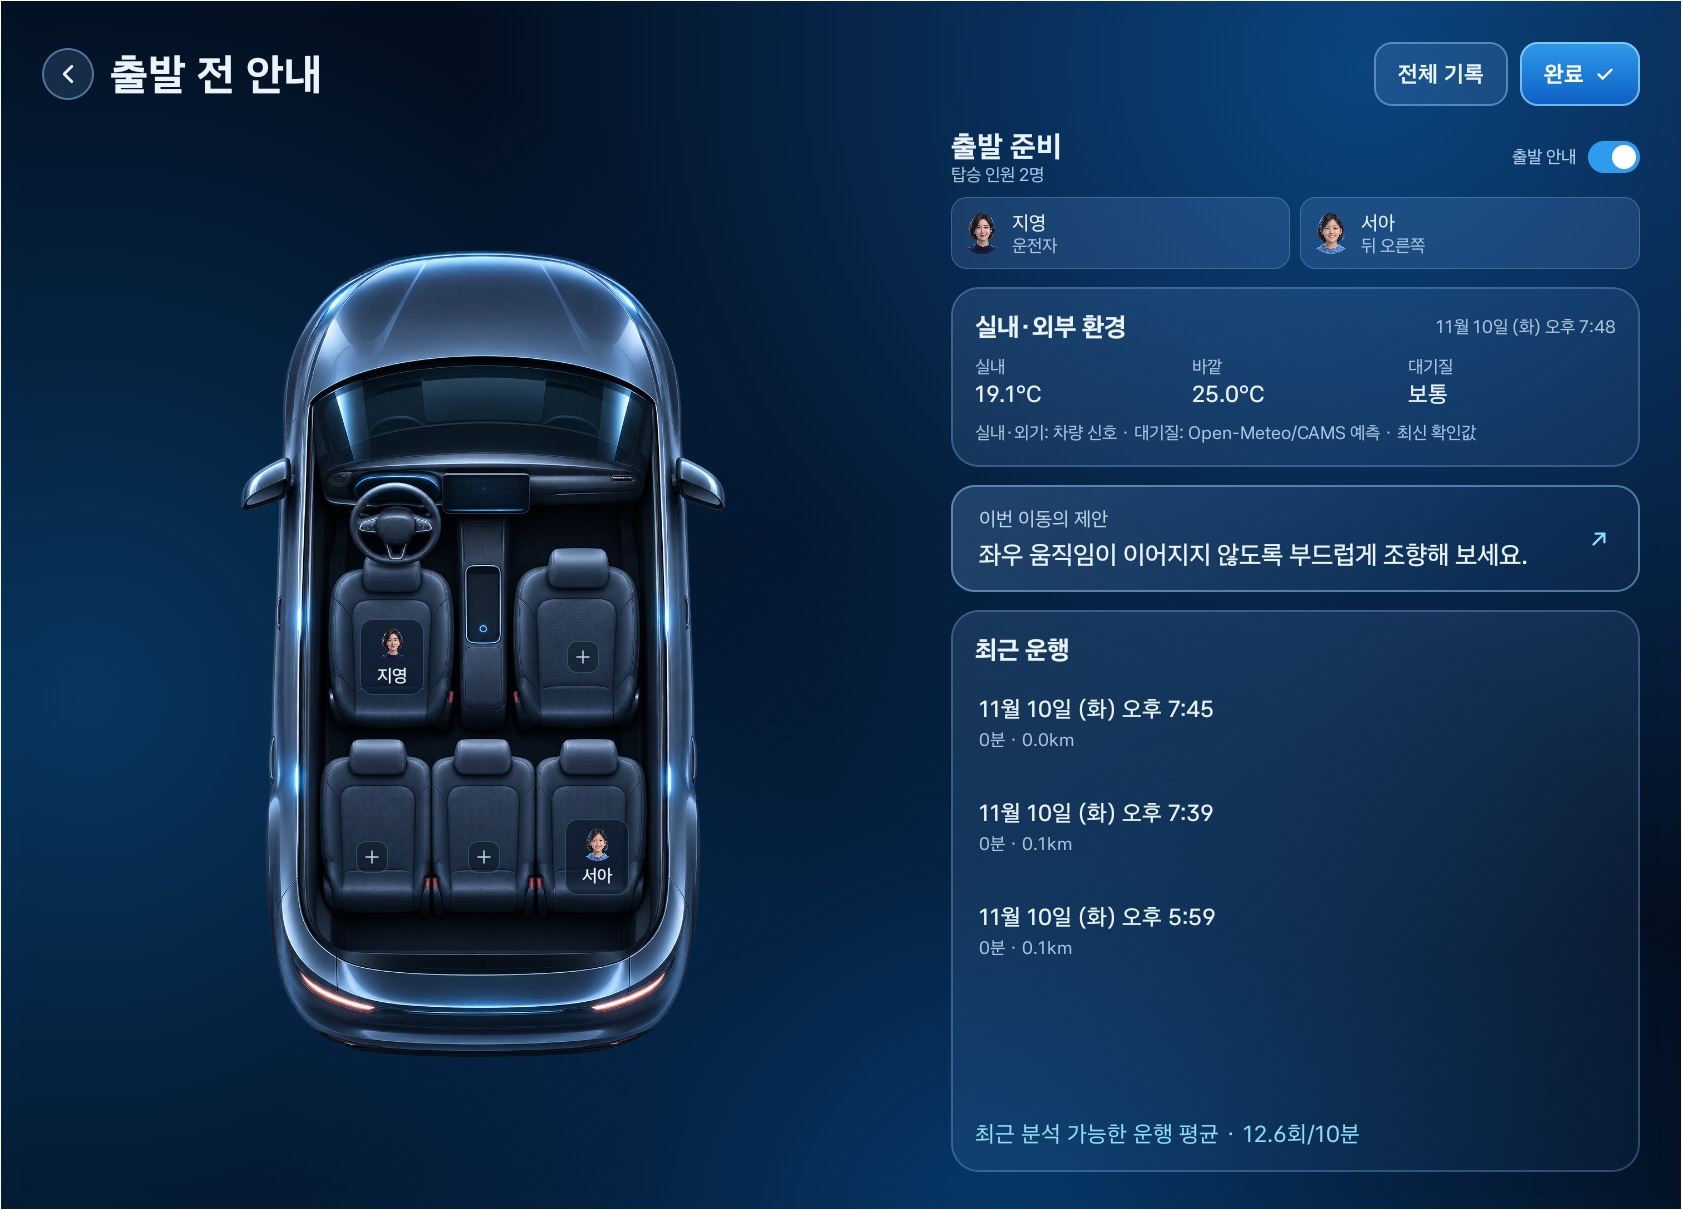
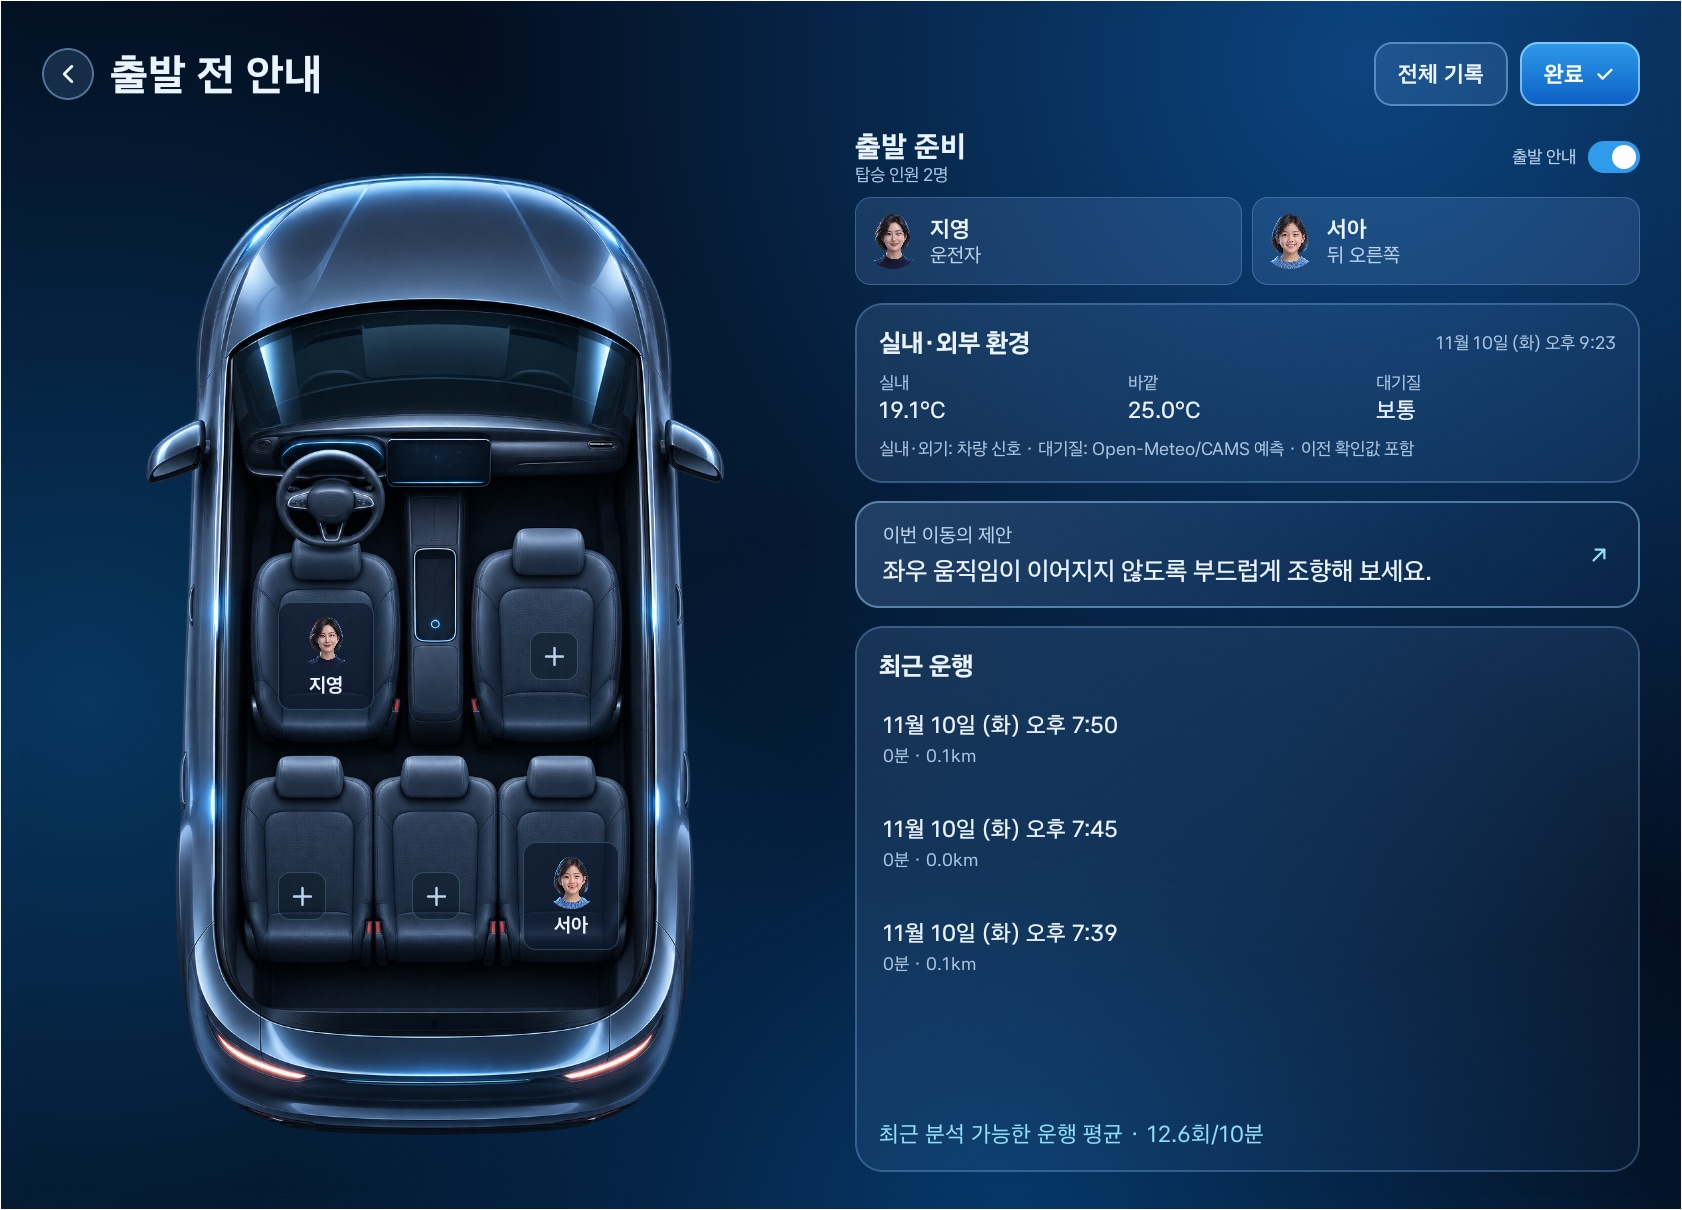
feat: 좌석 화면의 차 그림과 좌석·탑승자 표시를 키워 빈 공간을 줄임
Claude-Session: https://claude.ai/code/session_01Wjhb7fqWhhWdR3H3KBWn9w

diff --git a/feature/history/src/main/java/dev/motioncare/feature/history/departure/ReadyContent.kt b/feature/history/src/main/java/dev/motioncare/feature/history/departure/ReadyContent.kt
@@ -132,9 +132,9 @@ private fun DepartureContent(
                 state.error?.let { Text(it, color = MaterialTheme.colorScheme.error) }
                 if (state.loading) LinearProgressIndicator(Modifier.fillMaxWidth())
                 if (wide) Row(Modifier.fillMaxWidth().height(panelHeight), horizontalArrangement = Arrangement.spacedBy(28.dp)) {
-                    SeatingPanel(state, openSeat, { openSeat = it }, Modifier.weight(1.15f).fillMaxHeight(), panelHeight)
+                    SeatingPanel(state, openSeat, { openSeat = it }, Modifier.weight(1f).fillMaxHeight(), panelHeight)
                     DepartureConsole(state, { openSeat = it }, onAdvice, onTrip, onToggleGuidance,
-                        Modifier.weight(.9f).fillMaxHeight(), compact)
+                        Modifier.weight(1f).fillMaxHeight(), compact)
                 } else Column(verticalArrangement = Arrangement.spacedBy(22.dp)) {
                     SeatingPanel(state, openSeat, { openSeat = it })
                     DepartureConsole(state, { openSeat = it }, onAdvice, onTrip, onToggleGuidance)
@@ -319,7 +319,8 @@ private val adviceSteps = listOf(MotionIcons.Person to "자리", MotionIcons.Pla
     maxCarHeight: Dp = 860.dp,
 ) {
     Box(modifier.heightIn(min = 500.dp).padding(horizontal = 8.dp, vertical = 12.dp), contentAlignment = Alignment.Center) {
-        CarInterior(state, openSeat, onSeat, maxCarHeight)
+        // The padding comes out of the height the car may take.
+        CarInterior(state, openSeat, onSeat, maxCarHeight - 24.dp)
     }
 }
 
@@ -375,17 +376,17 @@ private fun DepartureOverview(
                         color = MotionPanel,
                         shape = RoundedCornerShape(16.dp),
                         border = BorderStroke(1.dp, MotionLine),
-                        modifier = Modifier.weight(1f).heightIn(min = if (compact) 58.dp else 72.dp),
+                        modifier = Modifier.weight(1f).heightIn(min = if (compact) 64.dp else 88.dp),
                     ) {
                         Row(
                             Modifier.padding(horizontal = 10.dp, vertical = 8.dp),
                             verticalAlignment = Alignment.CenterVertically,
                             horizontalArrangement = Arrangement.spacedBy(9.dp),
                         ) {
-                            PersonAvatar(person, Modifier.size(if (compact) 34.dp else 42.dp))
+                            PersonAvatar(person, Modifier.size(if (compact) 40.dp else 56.dp))
                             Column(Modifier.weight(1f)) {
-                                Text(person.displayName, fontSize = motionType.label, maxLines = 1, overflow = TextOverflow.Ellipsis)
-                                Text(if (seat == SeatPosition.DRIVER) "운전자" else seat.shortLabel(), color = MotionMuted, fontSize = motionType.caption, maxLines = 1)
+                                Text(person.displayName, fontSize = motionType.body, fontWeight = FontWeight.Bold, maxLines = 1, overflow = TextOverflow.Ellipsis)
+                                Text(if (seat == SeatPosition.DRIVER) "운전자" else seat.shortLabel(), color = MotionSubtle, fontSize = motionType.label, maxLines = 1)
                             }
                         }
                     }
@@ -462,8 +463,9 @@ private fun Availability.shortStatus() = when (this) {
 
 // Top-down view with the front of the car at the top; the driver sits front-left.
 @Composable private fun CarInterior(state: DepartureUiState, openSeat: SeatPosition?, onSeat: (SeatPosition) -> Unit, maxCarHeight: Dp) {
-    BoxWithConstraints(Modifier.fillMaxWidth().heightIn(max = 860.dp), contentAlignment = Alignment.Center) {
-        val width = minOf(maxWidth, 570.dp, maxCarHeight / 1.5f)
+    BoxWithConstraints(Modifier.fillMaxWidth().heightIn(max = maxCarHeight), contentAlignment = Alignment.Center) {
+        // The cabin drawing is 1 : 1.5. It grows to the panel's height so the seats read from the driver's seat.
+        val width = minOf(maxWidth, maxCarHeight / 1.5f)
         val height = width * 1.5f
         Box(Modifier.size(width, height)) {
             Image(painterResource(R.drawable.mc_cabin_b), "차량 좌석", Modifier.fillMaxSize(), contentScale = ContentScale.Fit)
@@ -471,7 +473,7 @@ private fun Availability.shortStatus() = when (this) {
                 Triple(SeatPosition.DRIVER, .34f, .50f), Triple(SeatPosition.FRONT_PASSENGER, .675f, .50f),
                 Triple(SeatPosition.REAR_LEFT, .305f, .735f), Triple(SeatPosition.REAR_CENTER, .502f, .735f), Triple(SeatPosition.REAR_RIGHT, .70f, .735f))
             positions.forEach { (seat, x, y) ->
-                val size = (width * .165f).coerceIn(48.dp, 64.dp)
+                val size = (width * .165f).coerceIn(48.dp, 96.dp)
                 Box(Modifier.offset(width * x - size / 2, height * y - size / 2)) {
                     SeatCircle(seat, size, state, openSeat, onSeat)
                 }
@@ -505,10 +507,10 @@ private fun Availability.shortStatus() = when (this) {
         border = if (selected || person != null) BorderStroke(1.dp, if (selected) MotionCyan.copy(.7f) else MotionCyan.copy(.22f)) else null,
         modifier = Modifier.size(size, size + 12.dp).semantics { contentDescription = "${seat.label()} · ${person?.displayName ?: "빈 자리"}" }) {
         Column(Modifier.padding(4.dp), horizontalAlignment = Alignment.CenterHorizontally, verticalArrangement = Arrangement.spacedBy(4.dp, Alignment.CenterVertically)) {
-            if (person == null) Box(Modifier.size(32.dp).background(Color(0x800A1724), RoundedCornerShape(10.dp)).border(1.dp, MotionCyan.copy(.22f), RoundedCornerShape(10.dp)), contentAlignment = Alignment.Center) {
-                Icon(MotionIcons.Plus, contentDescription = null, tint = MotionSubtle, modifier = Modifier.size(20.dp))
-            } else PersonAvatar(person, Modifier.size((size * .52f).coerceAtLeast(28.dp)))
-            if (person != null) Text(person.displayName, fontSize = motionType.caption, fontWeight = FontWeight.Medium, color = MotionText, maxLines = 1, overflow = TextOverflow.Ellipsis)
+            if (person == null) Box(Modifier.size(size * .5f).background(Color(0x800A1724), RoundedCornerShape(12.dp)).border(1.dp, MotionCyan.copy(.22f), RoundedCornerShape(12.dp)), contentAlignment = Alignment.Center) {
+                Icon(MotionIcons.Plus, contentDescription = null, tint = MotionSubtle, modifier = Modifier.size(size * .3f))
+            } else PersonAvatar(person, Modifier.size((size * .55f).coerceAtLeast(28.dp)))
+            if (person != null) Text(person.displayName, fontSize = motionType.label, fontWeight = FontWeight.Bold, color = MotionText, maxLines = 1, overflow = TextOverflow.Ellipsis)
         }
     }
 }

diff --git a/docs/design.md b/docs/design.md
@@ -98,6 +98,7 @@
     - 아이콘은 `core:ui`의 `MotionIcons` 한 벌입니다. 홈의 시안 아이콘(`HomeIcons`)을 옮겨 합쳤고, 기록 화면의 글자 아이콘(⇡ ⇣ ∿ ↻ ⇄ ◷ → › ✓ ↗ ◉ ▶ ★ ✦ ＋)을 같은 선 굵기의 벡터로 바꿨습니다. 버튼은 `icon`·`leadingIcon`으로 아이콘을 붙입니다. 별점의 ★·☆와 문장 속 화살표("출발 19.1°C → 종료 …")는 글자로 둡니다.
     - 주 버튼과 보조 버튼은 `core:ui`의 `MotionPrimaryButton`·`MotionSecondaryButton` 하나입니다. 홈의 `HeroButton`, 기록 화면의 `PrimaryAction`, 운행 중 카드의 Material 기본 버튼(작은 청록 알약) 세 가지였던 것을 합쳤습니다. 목록 줄, 패턴 선택 줄, 문장 속 링크("설정 열기", "알림 켜기")는 버튼 모양을 쓰지 않습니다.
     - 패턴 이름은 [탐지 기준](detection-thresholds.md)과 같은 다섯 개로 맞췄습니다: 빠른 출발, 정차 직전 큰 감속, 반복 가감속, 빠른 회전, 반복 좌우 움직임. 같은 패턴이 화면에 따라 "출발 직후 속도 증가", "빠른 가속", "정차 전 큰 감속" 등으로 달랐습니다.
+    - 좌석 화면은 차 그림 폭을 570dp로 묶던 것을 풀어 패널 높이만큼 키우고(그림 비율 1 : 1.5), 좌석 표시를 64dp에서 최대 96dp로, 오른쪽 탑승자 칸의 얼굴과 이름을 키웠습니다. 좌우 칸은 같은 폭입니다. 주변 빈 공간이 많다는 검토 의견을 따른 제품 판단입니다.
     - 에뮬레이터 23개 화면을 바꾸기 전후로 캡처해 확인했습니다. 대표 화면: [출발 전 안내](pleos-emulator/shots/109_unified_departure.jpg), [운행 상세](pleos-emulator/shots/110_unified_trip_detail.jpg), [운행 기록 중](pleos-emulator/shots/111_unified_driving.jpg).
 
 ## 스타일 기준
